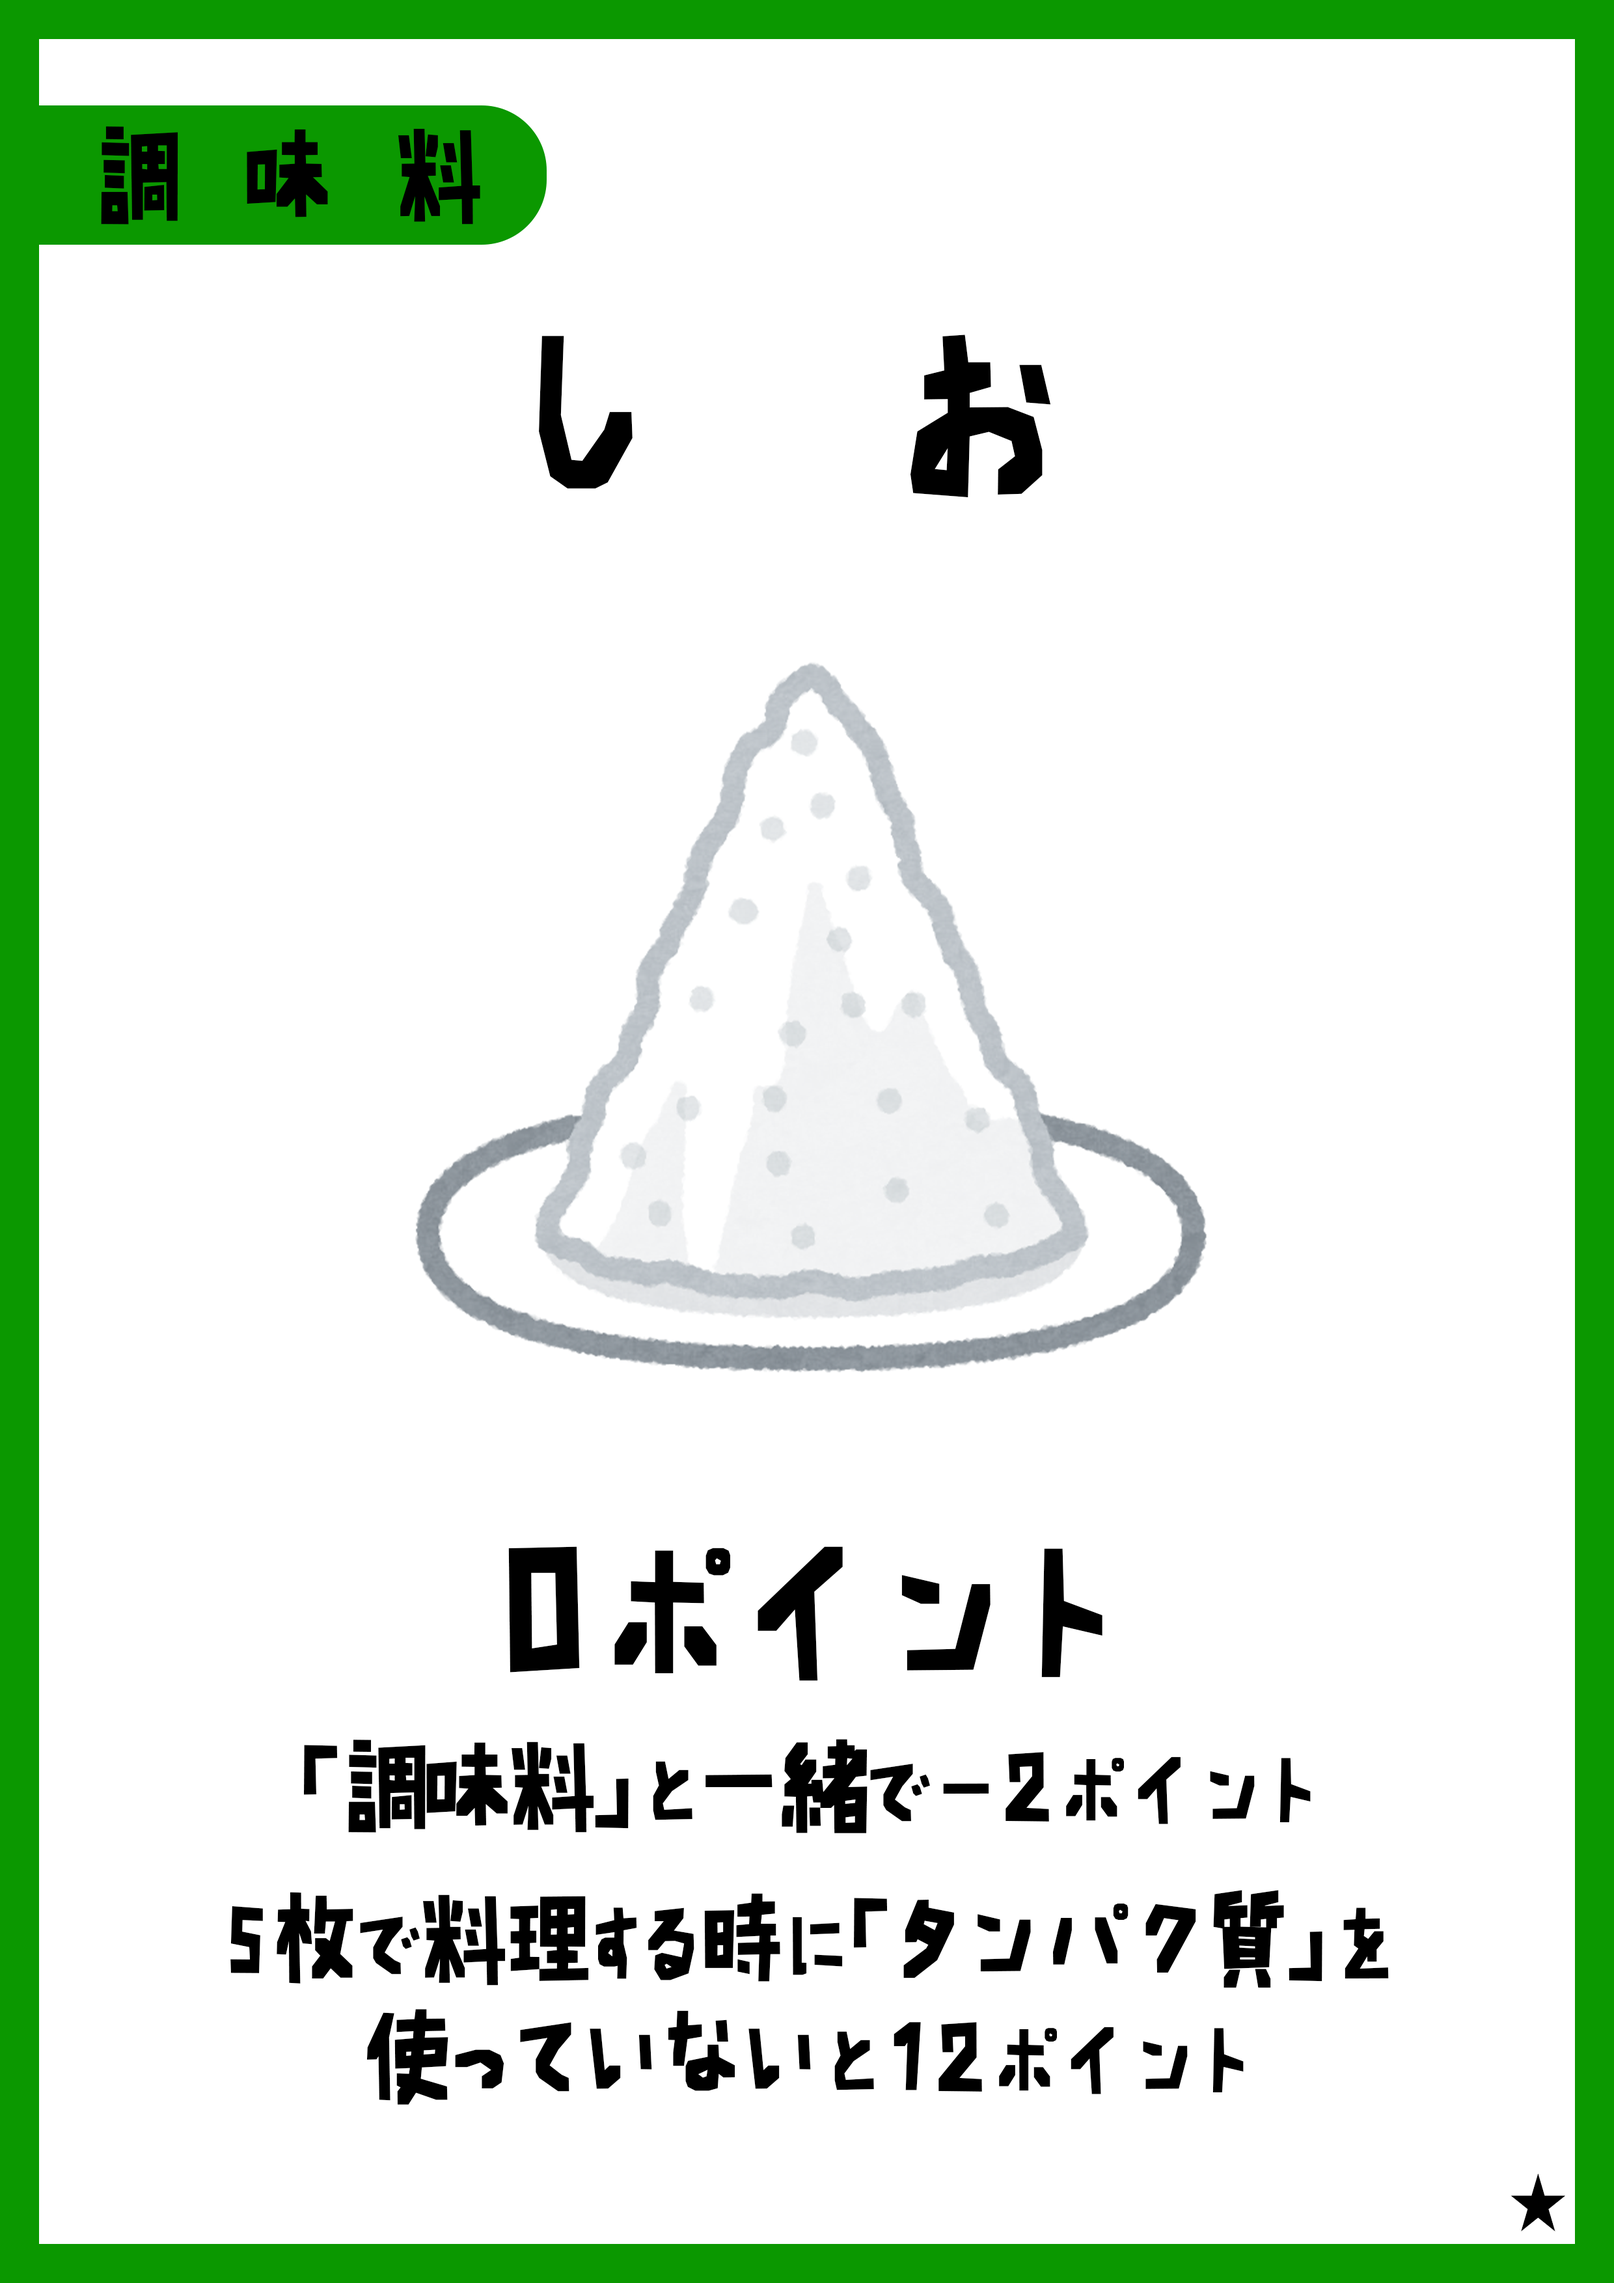
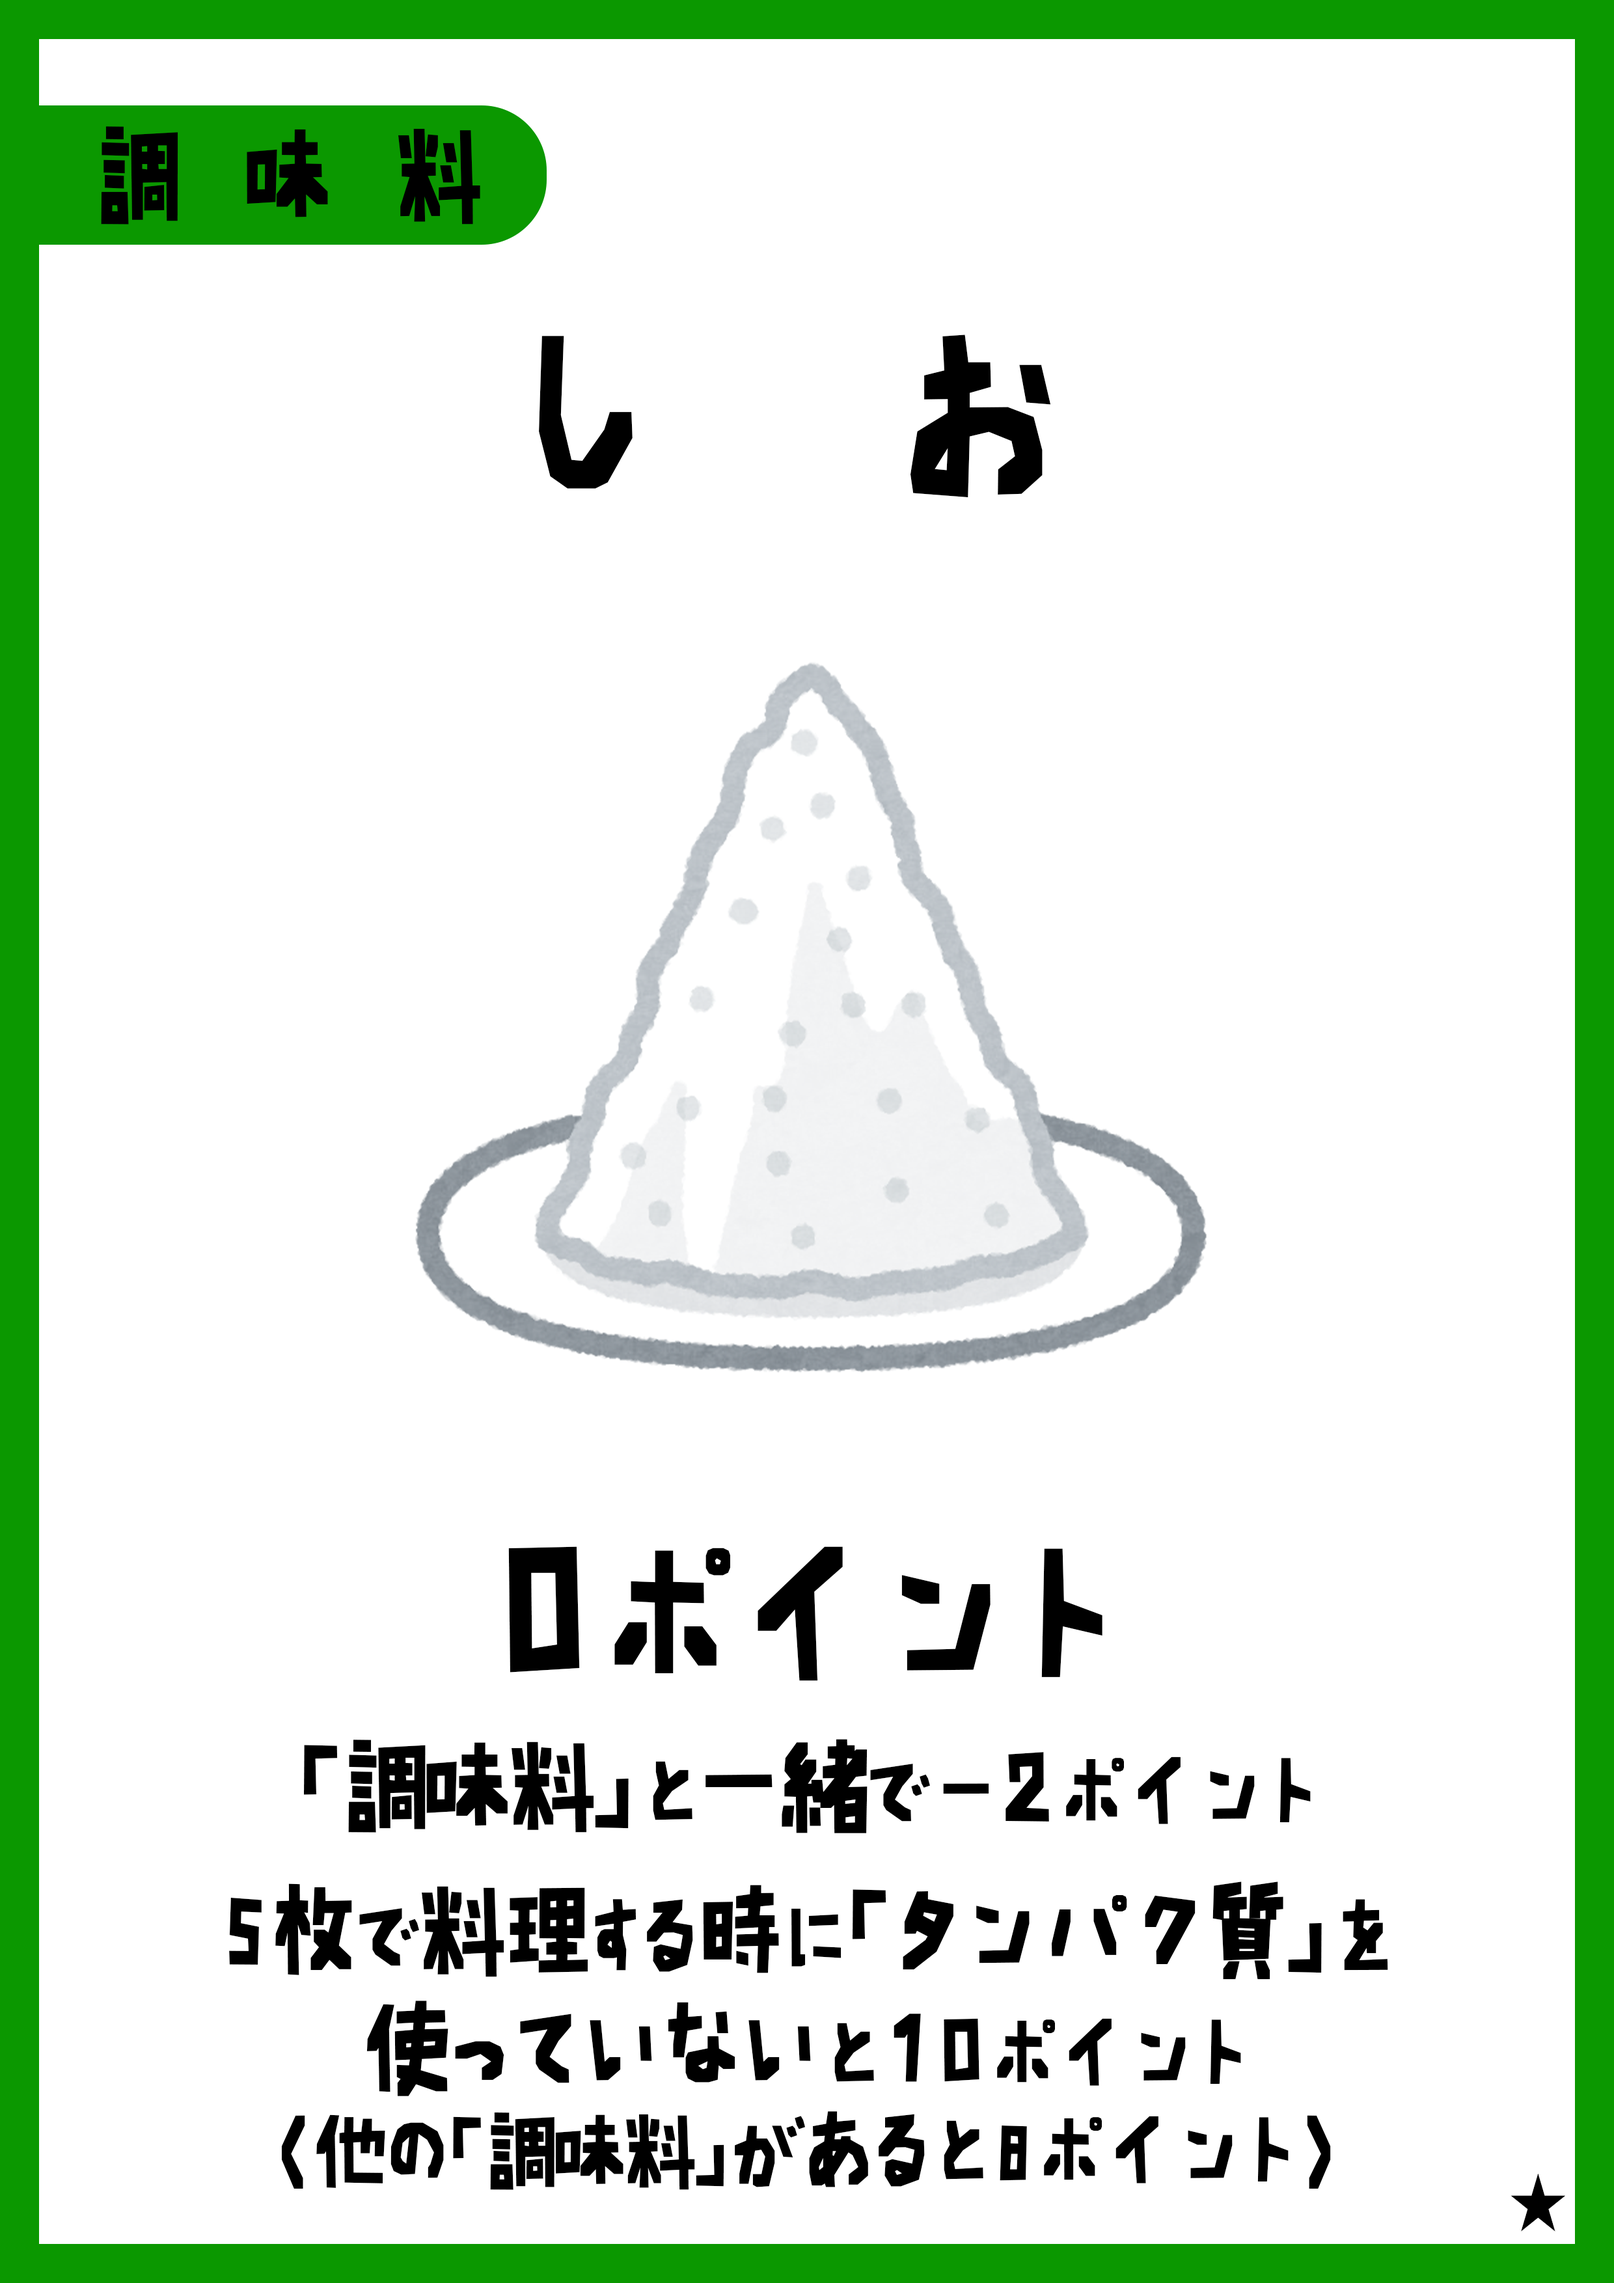
しおの仕様を変更

Changed region(s): [[0.1242, 0.8079, 0.8694, 0.9632]]

diff --git a/docs/js/scoring.js b/docs/js/scoring.js
@@ -101,9 +101,11 @@ const scorers = {
     return 2;
   },
   しお(cards) {
-    if (cards.length === 5 && !anyOf(cards, PROTEIN)) return 12;
-    // −2 only when another seasoning is present (not しお alone)
-    if (SEASONING.some((n) => n !== "しお" && cards.includes(n))) return -2;
+    const hasOtherSeasoning = SEASONING.some((n) => n !== "しお" && cards.includes(n));
+    if (cards.length === 5 && !anyOf(cards, PROTEIN)) {
+      return hasOtherSeasoning ? 8 : 10;
+    }
+    if (hasOtherSeasoning) return -2;
     return 0;
   },
   コーン(cards) {

diff --git a/docs/js/card-effects.js b/docs/js/card-effects.js
@@ -71,7 +71,7 @@ export const CARD_EFFECTS = {
   しお: {
     base: "0点",
     effect:
-      "基本0点。他の調味料（しょうゆ・みそ）があると−2点。タンパク質なしの5枚料理なら12点。",
+      "基本0点。他の調味料（しょうゆ・みそ）があると−2点。タンパク質なしの5枚料理なら10点。（他の調味料があると8点）。",
     discard: null,
   },
   ねぎ: {

diff --git a/noodles.py b/noodles.py
@@ -109,9 +109,10 @@ class CalcCardPoint:
         return 2
 
     def salt(self):
+        has_other_seasoning = any(i in self.cards for i in SEASONING if i != "しお")
         if len(self.cards) == 5 and not any(i in self.cards for i in PROTEIN):
-            return 12
-        if any(i in self.cards for i in SEASONING):
+            return 8 if has_other_seasoning else 10
+        if has_other_seasoning:
             return -2
         return 0
 

diff --git a/noodles_gui.py b/noodles_gui.py
@@ -114,9 +114,10 @@ class CalcCardPoint:
         return 2
 
     def salt(self):
+        has_other_seasoning = any(i in self.cards for i in SEASONING if i != "しお")
         if len(self.cards) == 5 and not any(i in self.cards for i in PROTEIN):
-            return 12
-        if any(i in self.cards for i in SEASONING):
+            return 8 if has_other_seasoning else 10
+        if has_other_seasoning:
             return -2
         return 0
 

diff --git a/README.md b/README.md
@@ -178,7 +178,7 @@
 | <img src="docs/assets/cards/sprouts.png" width="40" alt="もやし" /> **もやし** | 基本 0。**たまご**とで 4 点、**ぶた**または**とり**とで **7 点** |
 | <img src="docs/assets/cards/menma.png" width="40" alt="めんま" /> **めんま** | 基本 2。トッピングがめんま**だけ**なら **4 点** |
 | <img src="docs/assets/cards/miso.png" width="40" alt="みそ" /> **みそ** | **コーン**で 4 点、コーン＋**バター**で **9 点** |
-| <img src="docs/assets/cards/salt.png" width="40" alt="しお" /> **しお** | 基本 0。他の調味料（しょうゆ・みそ）があると **−2**。タンパク質なしの **5 枚**料理なら **12 点** |
+| <img src="docs/assets/cards/salt.png" width="40" alt="しお" /> **しお** | 基本 0。「調味料」と一緒で **−2 点**。5 枚で料理する時に「タンパク質」を使っていないと **10 点**（他の「調味料」があると **8 点**） |
 | <img src="docs/assets/cards/garlic.png" width="40" alt="にんにく" /> **にんにく** | 基本 −2 のうえ、料理の**合計点を 2 倍** |
 | <img src="docs/assets/cards/butter.png" width="40" alt="バター" /> **バター** | **きのこ**で 3、きのこ＋**しょうゆ**で 5 |
 | <img src="docs/assets/cards/green-onion.png" width="40" alt="ねぎ" /> **ねぎ** | **えび**と一緒ならねぎが 4 点 |
